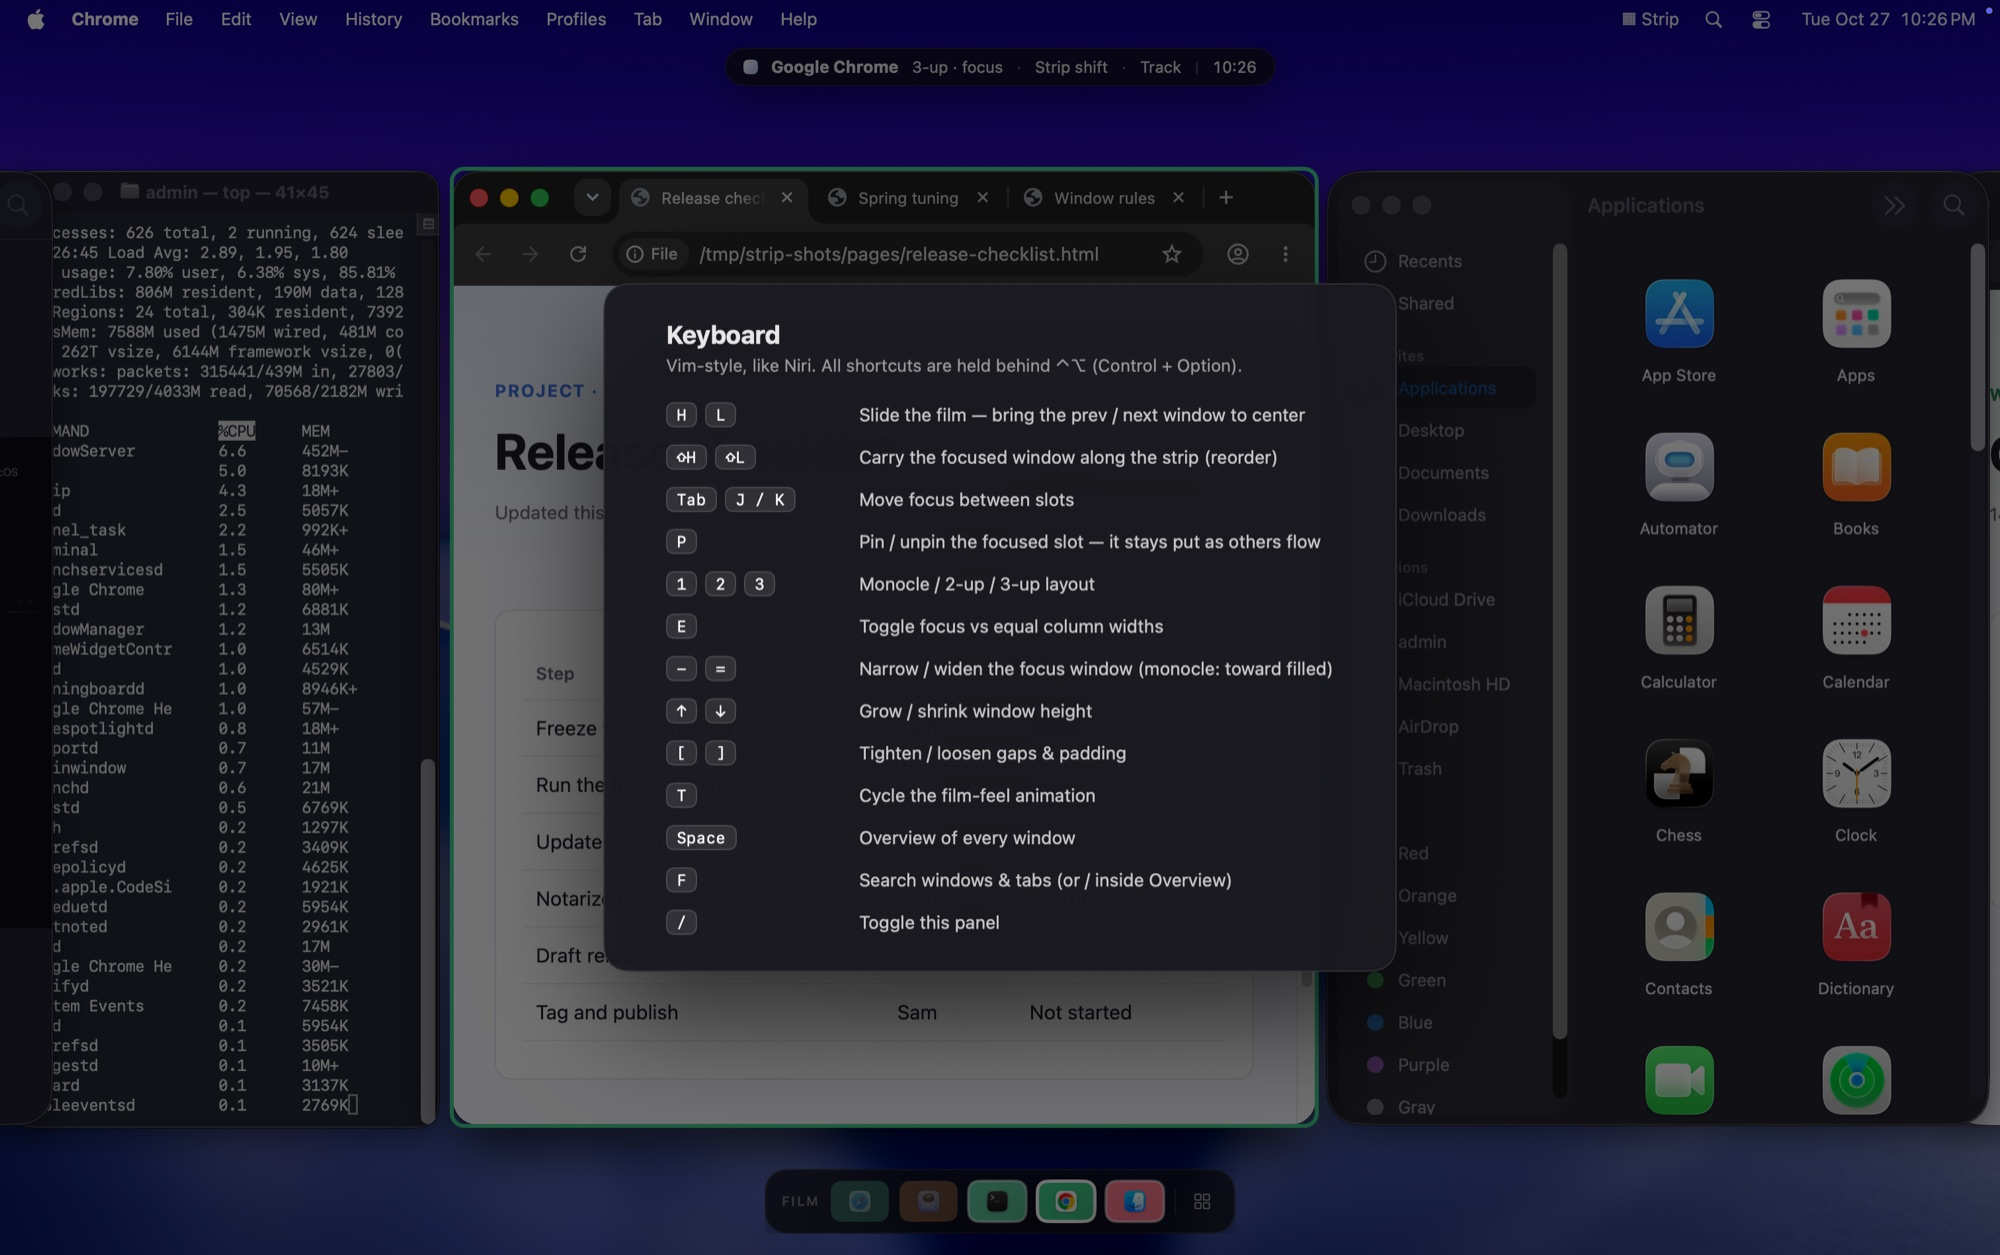
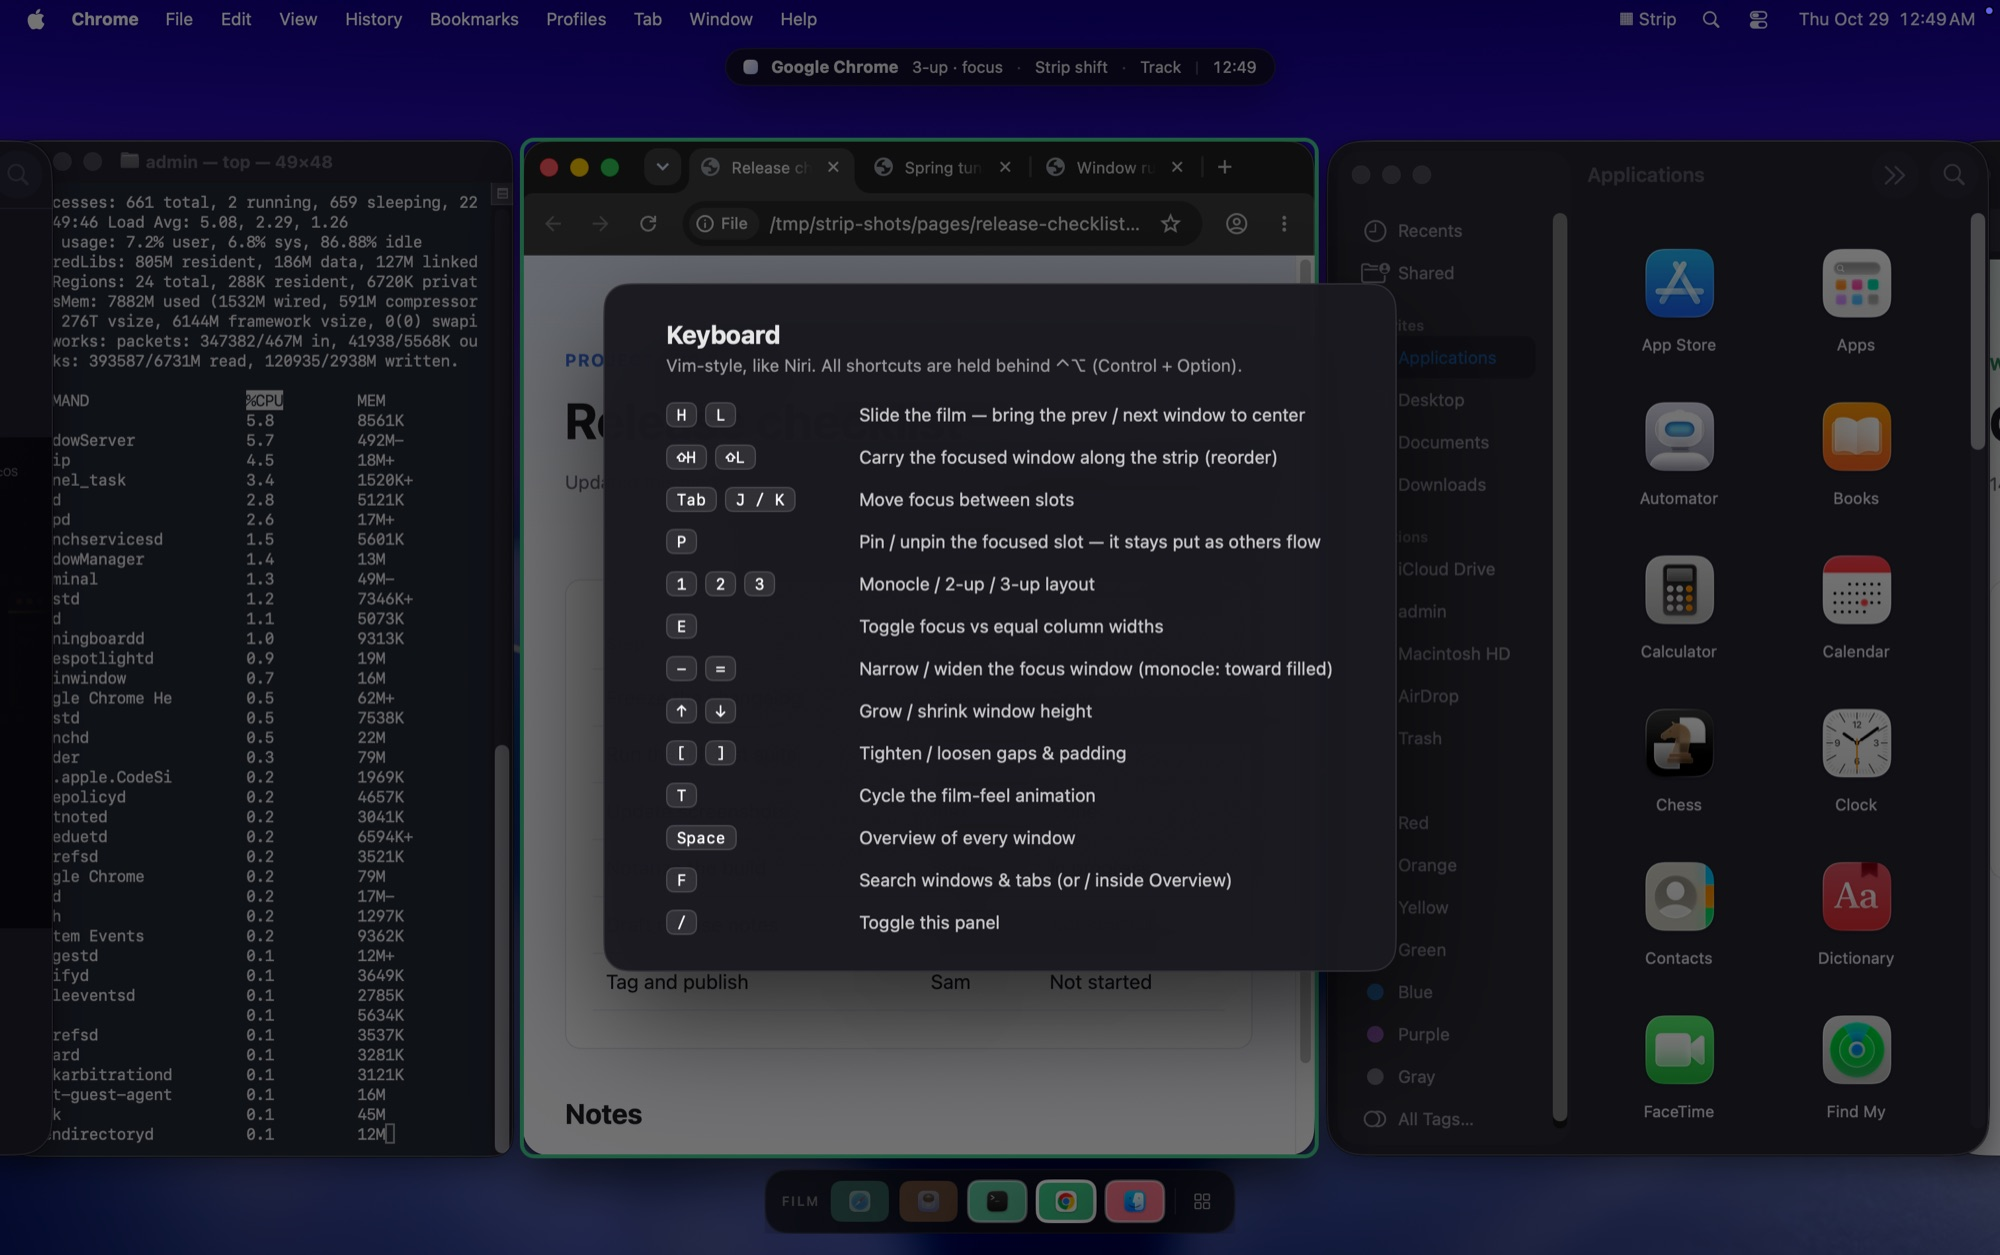
fix: taller windows in the screenshots (85% height) (#4)
The 80% window height left wide empty bands above and below the strip.
Compared 0.85 and 0.90 captures in the VM: 0.90 lets the film rail cover
the bottom of the windows; 0.85 fills the space between the status pill
and the rail with no overlap. All four published shots recaptured from
a fresh release build at 0.85.

The height is now SHOT_HEIGHT (default 0.85) for capture.sh / scene.sh,
and publish.sh defaults to the four shots the site uses instead of every
raw capture.

diff --git a/.claude/skills/screenshots/SKILL.md b/.claude/skills/screenshots/SKILL.md
@@ -16,6 +16,7 @@ files, so one run updates both.
 ```sh
 make screenshots                              # every shot (~1.5 min)
 make screenshots SHOTS="search help"          # a subset
+SHOT_HEIGHT=0.80 make screenshots             # window height (0.05 steps; default 0.85)
 scripts/screenshots/capture.sh --no-build --raw-only strip   # iterate on the scene: reuse the build, skip publishing
 scripts/screenshots/publish.sh strip          # publish a raw capture you've checked
 ```
@@ -45,6 +46,9 @@ Then publish, and update the `alt` text in `site/index.html` and `README.md` if 
 - **Never resize a window Strip already manages.** Strip reads the size back and learns it as the
   app's minimum width (a 60% resize became Terminal `min=905`). `scene.sh` stages and positions every
   window *before* launching Strip; the film order is the windows' left-to-right on-screen order.
+- **Window height 0.85 is the ceiling.** Strip's default (1.0) puts the status pill over the windows'
+  tab bars and the rail over their content; 0.90 still lets the rail cover the bottom ~16px; 0.80
+  leaves visibly empty bands. Windows are centered vertically, so each step moves both edges.
 - **Real minimum widths on the VM's 1512pt display:** Finder 501, Chrome 500, Safari 574, Preview 708.
   Only Terminal fits a narrow side slot, which is why Preview and Safari stay parked in the hero.
 - **Typing never peeks a tab.** Peek follows ↑/↓ only, so the scene presses ↓ then ↑.
